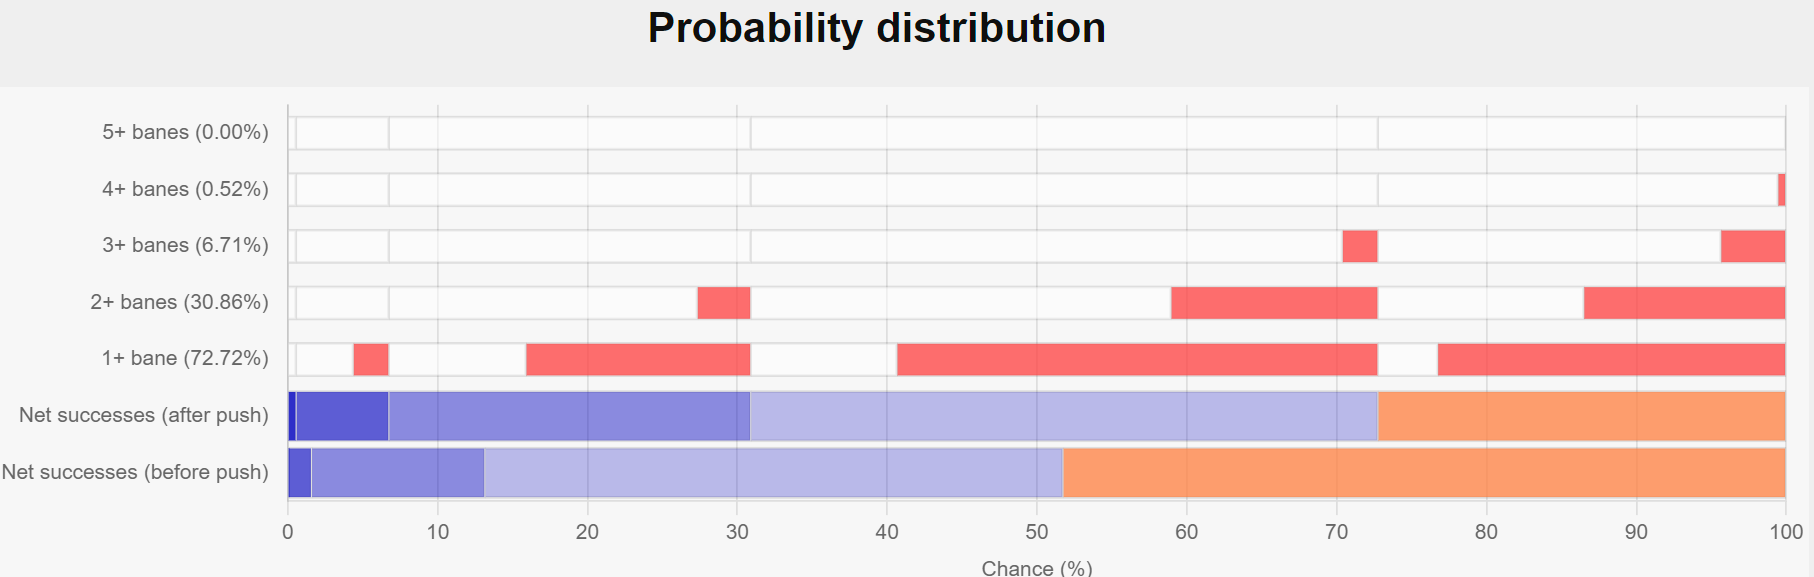
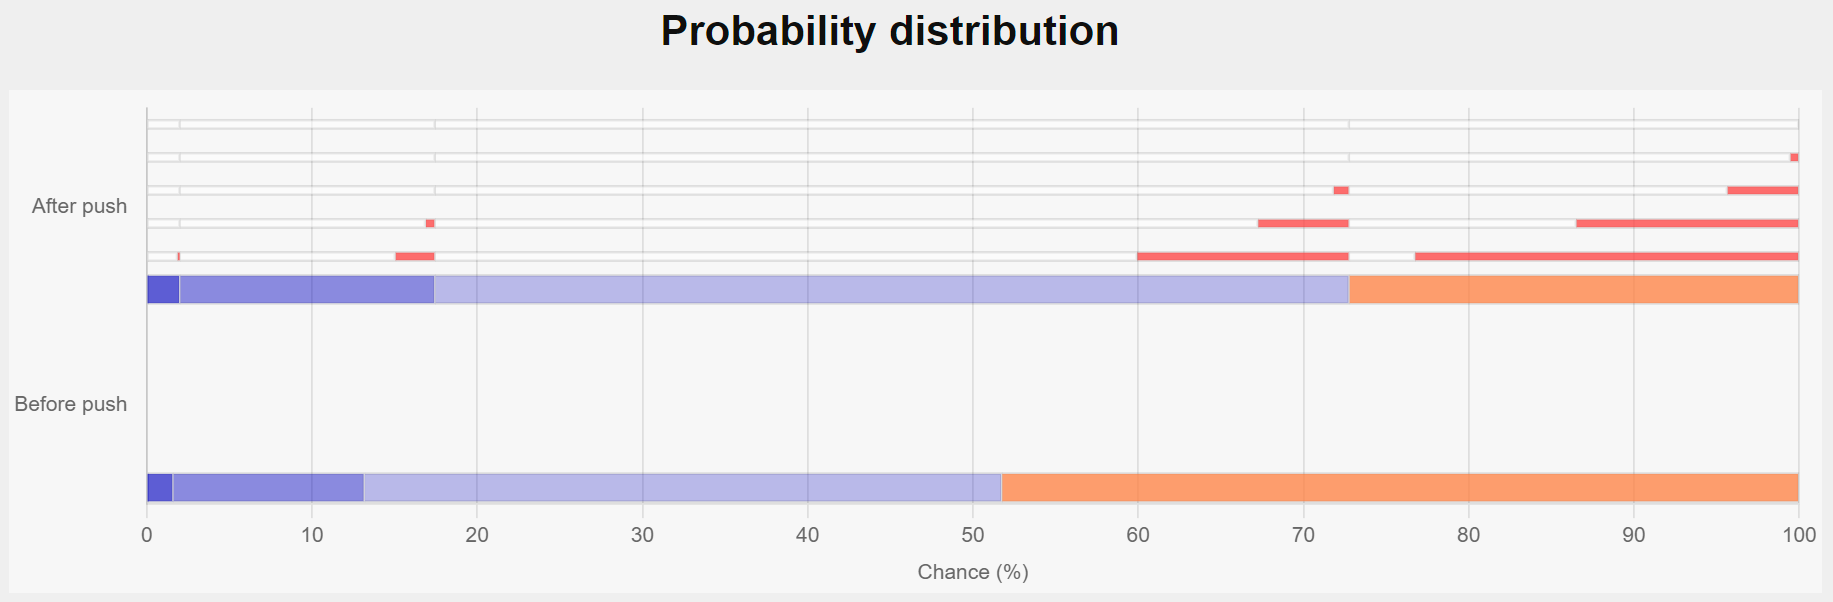
yze: grouped bars

diff --git a/apps/year_zero_engine.html b/apps/year_zero_engine.html
@@ -138,7 +138,7 @@
                 },
                 datasets: {
                     bar: {
-                        barPercentage: 1.0,
+                        categoryPercentage: 1.0,
                         borderWidth: 1,
                     },
                 },
@@ -330,75 +330,58 @@
             bane_counts = [5, 4, 3, 2, 1]
             
             for success_count in reversed(die_success.outcomes()):
-                data = [None] * bane_counts[0]
+                data = []
                 data.append(die_push.marginals[0].probability(success_count) * 100.0)
                 data.append(die_no_push.probability(success_count) * 100.0)
+                dataset = {
+                    'data' : data,
+                    'barPercentage' : 0.9,
+                    'stack' : 'success',
+                }
                 if success_count == -1:
-                    dataset = {
-                        'label' : '-1 or less (fail)',
-                        'data' : data,
-                        'backgroundColor' : 'rgba(255, 127, 63, 0.75)',
-                        'categoryPercentage' : 0.9,
-                    }
+                    dataset['label'] = '-1 or less (fail)'
+                    dataset['backgroundColor'] = 'rgba(255, 127, 63, 0.75)'
                 elif success_count == 0:
-                    dataset = {
-                        'label' : '0 (tie)' if has_opposition else '0 (fail)',
-                        'data' : data,
-                        'backgroundColor' : 'rgba(255, 255, 159, 0.75)' if has_opposition else 'rgba(255, 127, 63, 0.75)',
-                        'categoryPercentage' : 0.9,
-                    }
+                    dataset['label'] = '0 (tie)' if has_opposition else '0 (fail)'
+                    dataset['backgroundColor'] = 'rgba(255, 255, 159, 0.75)' if has_opposition else 'rgba(255, 127, 63, 0.75)'
                 else:
-                    dataset = {
-                        'label' : str(success_count),
-                        'data' : data,
-                        'backgroundColor' : success_color(success_count),
-                        'categoryPercentage' : 0.9,
-                    }
+                    dataset['label'] = str(success_count)
+                    dataset['backgroundColor'] = success_color(success_count)
                 success_datasets.append(dataset)
                 
             bane_datasets = []
             
             for success_count, success_probability in zip(reversed(die_success.outcomes()), reversed(die_success.probabilities())):
-                bane_data = []
-                no_bane_data = []
                 for bane_count in bane_counts:
                     banes = die_push.map(lambda s, b: b if s == success_count else icepool.Reroll)
                     if banes.denominator() > 0:
-                        bane_data.append(success_probability * (banes >= bane_count).mean() * 100.0)
-                        no_bane_data.append(success_probability * (banes < bane_count).mean() * 100.0)
+                        bane_data = [success_probability * (banes >= bane_count).mean() * 100.0, None]
+                        no_bane_data = [success_probability * (banes < bane_count).mean() * 100.0, None]
                     else:
-                        bane_data.append(None)
-                        no_bane_data.append(None)
-                bane_data += [None, None]
-                no_bane_data += [None, None]
-                bane_dataset = {
-                    'label' : 'At least X bane(s)',
-                    'data' : bane_data,
-                    'backgroundColor' : 'rgba(255, 63, 63, 0.75)',
-                    'categoryPercentage' : 0.6,
-                }
-                no_bane_dataset = {
-                    'label' : 'Less than X bane(s)',
-                    'data' : no_bane_data,
-                    'backgroundColor' : 'rgba(255, 255, 255, 0.5)',
-                    'categoryPercentage' : 0.6,
-                }
-                bane_datasets += [no_bane_dataset, bane_dataset]
+                        bane_data = [None, None]
+                        no_bane_data = [None, None]
+
+                    bane_dataset = {
+                        'label' : f'At least {bane_count} banes' if bane_count > 1 else 'At least 1 bane',
+                        'data' : bane_data,
+                        'backgroundColor' : 'rgba(255, 63, 63, 0.75)',
+                        'barPercentage' : 0.3,
+                        'stack' : f'bane {bane_count}',
+                    }
+                    no_bane_dataset = {
+                        'label' : f'Less than {bane_count} banes' if bane_count > 1 else 'No banes',
+                        'data' : no_bane_data,
+                        'backgroundColor' : 'rgba(255, 255, 255, 0.5)',
+                        'barPercentage' : 0.3,
+                        'stack' : f'bane {bane_count}',
+                    }
+                    bane_datasets += [no_bane_dataset, bane_dataset]
                 
-            datasets = success_datasets + bane_datasets
+            datasets = bane_datasets + success_datasets
             
             js.successChart.data.datasets = pyodide.ffi.to_js(datasets, dict_converter=js.Object.fromEntries)
             
-            labels = []
-            for bane_count in bane_counts:
-                chance = (die_bane >= bane_count).mean()
-                if bane_count > 1:
-                    labels.append(f'{bane_count}+ banes ({chance:0.2%})')
-                else:
-                    labels.append(f'1+ bane ({chance:0.2%})')
-            
-            labels.append('Net successes (after push)')
-            labels.append('Net successes (before push)')
+            labels = ['After push', 'Before push']
             
             js.successChart.data.labels = pyodide.ffi.to_js(labels)
             
